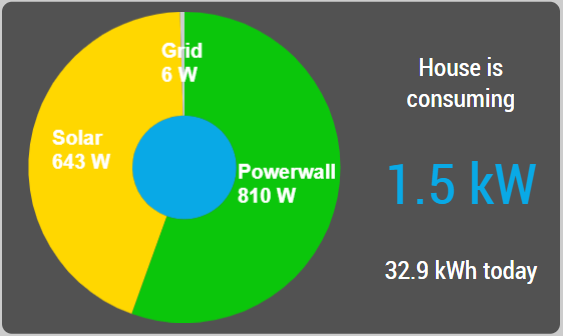
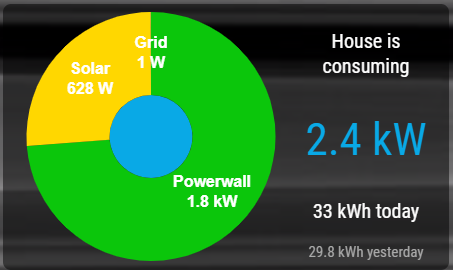
Updated grid tile

diff --git a/MMM-Powerwall.js b/MMM-Powerwall.js
@@ -1016,7 +1016,7 @@ Module.register("MMM-Powerwall", {
 			// Various grid states
 			if( this.gridStatus != "SystemGridConnected") {
 				// Grid outage
-				this.updateText(this.identifier + "-GridDirection", "");
+				this.updateText(this.identifier + "-GridDirection", "Grid is");
 				this.updateText(this.identifier + "-GridInOut",
 					this.gridStatus == "SystemTransitionToGrid" ?
 						"coming online" : "disconnected"
@@ -1024,19 +1024,19 @@ Module.register("MMM-Powerwall", {
 			}
 			else if( this.flows.sources.grid.total >= 0.5 ) {
 				// Importing energy
-				this.updateText(this.identifier + "-GridDirection", "providing")
+				this.updateText(this.identifier + "-GridDirection", "Grid is providing")
 				this.updateNode(this.identifier + "-GridInOut",
 					this.flows.sources.grid.total, "W");
 				this.makeNodeVisible(this.identifier + "-GridInOut");
 			}
 			else if ( this.flows.sinks.grid.total >= 0.5 ) {
-				this.updateText(this.identifier + "-GridDirection", "receiving")
+				this.updateText(this.identifier + "-GridDirection", "Grid is receiving")
 				this.updateNode(this.identifier + "-GridInOut",
 					this.flows.sinks.grid.total, "W");
 				this.makeNodeVisible(this.identifier + "-GridInOut");
 			}
 			else {
-				this.updateText(this.identifier + "-GridDirection", "idle");
+				this.updateText(this.identifier + "-GridDirection", "Grid is idle");
 				this.makeNodeInvisible(this.identifier + "-GridInOut");
 			}
 

diff --git a/README.md b/README.md
@@ -49,6 +49,7 @@ var config = {
 This module implements several different graphs.  Currently, these are:
 
 - CarCharging<br>![](images/CarCharging.png)
+- Grid<br>![](images/Grid.png)
 - PowerwallSelfPowered<br>![](images/PowerwallSelfPowered.png)
 - SolarProduction<br>![](images/SolarProduction.png)
 - HouseConsumption<br>![](images/HouseConsumption.png)
